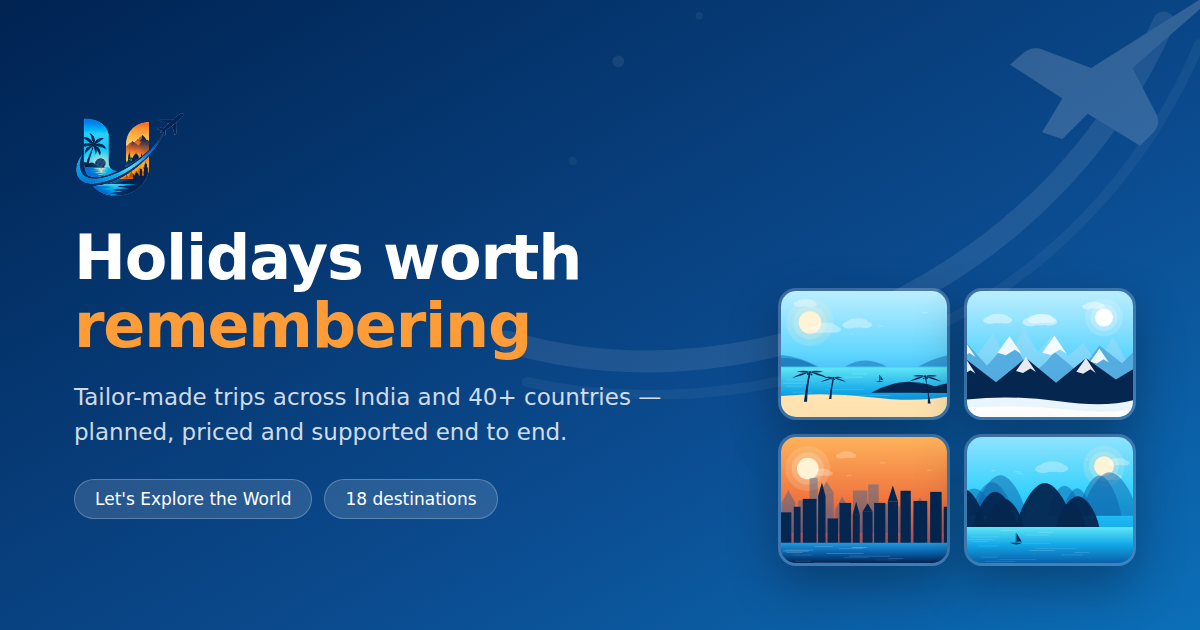
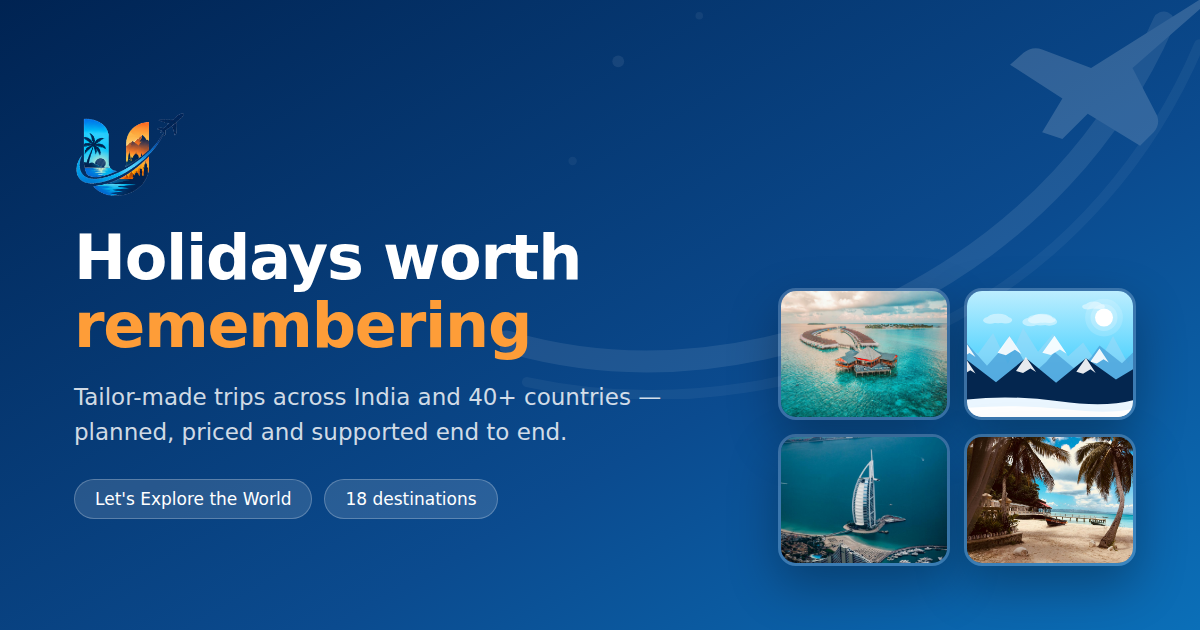
Use the owner's photographs for six destinations
Real photos supplied for Dubai, Goa, Maldives, Kerala, Ladakh and Kashmir,
wired in with tools/fetch-photos.py --apply --skip-download, which swapped
the .svg references across the pages, updated each img's intrinsic size and
rewrote the alt text. The other twelve destinations keep their illustrations.

Prepared for the web rather than dropped in as-is: EXIF stripped (including
any GPS), camera rotation applied, and each file sized to how it is actually
used. Cards render at roughly 380 CSS px, so those get ~900px files; Maldives
and Ladakh are kept larger because they are also the full-bleed backdrops of
the day/night set-piece and the interlude. That is 1.15 MB for six photos
rather than the 5.7 MB the largest original alone would have cost.

The photographs also reach the places that matter most: Ladakh now carries
the interlude, and Maldives the day/night scene. Two adjustments followed
from that:

- The interlude scrim was tuned for flat vector art and dimmed a real
  photograph far more than it needed to. Lightened, and the blends into the
  neighbouring sections pulled back, with legibility re-checked.
- The day/night copy crossfade left both lines partly visible around the
  midpoint, which read as ghosting over a photo. The day line now clears
  before the night line arrives.

Also regenerated the social share image so it uses the real photos, and made
the two day/night backdrop images lazy and dimensioned.
[…]

Changed region(s): [[0.6475, 0.6937, 0.9558, 0.9048], [0.6475, 0.4524, 0.8017, 0.6635]]

diff --git a/index.html b/index.html
@@ -122,15 +122,15 @@
       <div class="hero-art" data-anim="scale-in" data-anim-delay="500">
         <div class="collage">
           <figure class="tall">
-            <img src="assets/img/destinations/maldives.svg" alt="Illustration of the Maldives" width="800" height="560">
+            <img src="assets/img/destinations/maldives.jpg" alt="the Maldives" width="1500" height="1125">
             <figcaption>Maldives</figcaption>
           </figure>
           <figure class="short">
-            <img src="assets/img/destinations/kashmir.svg" alt="Illustration of Kashmir" width="800" height="560">
+            <img src="assets/img/destinations/kashmir.jpg" alt="Kashmir" width="900" height="675">
             <figcaption>Kashmir</figcaption>
           </figure>
           <figure class="short">
-            <img src="assets/img/destinations/dubai.svg" alt="Illustration of Dubai" width="800" height="560">
+            <img src="assets/img/destinations/dubai.jpg" alt="Dubai" width="900" height="1350">
             <figcaption>Dubai</figcaption>
           </figure>
         </div>
@@ -206,7 +206,7 @@
 
       <div class="hscroll__viewport">
         <div class="hscroll__track"><a class="hscroll__item" href="packages.html?destination=kashmir">
-      <img src="assets/img/destinations/kashmir.svg" alt="Illustration of Kashmir" loading="lazy" width="800" height="560">
+      <img src="assets/img/destinations/kashmir.jpg" alt="Kashmir" loading="lazy" width="900" height="675">
       <span class="hscroll__num">01</span>
       <span class="hscroll__cap">
         <span>India</span>
@@ -214,7 +214,7 @@
         <p>from ₹24,900 per person</p>
       </span>
     </a><a class="hscroll__item" href="packages.html?destination=kerala">
-      <img src="assets/img/destinations/kerala.svg" alt="Illustration of Kerala" loading="lazy" width="800" height="560">
+      <img src="assets/img/destinations/kerala.jpg" alt="Kerala" loading="lazy" width="900" height="506">
       <span class="hscroll__num">02</span>
       <span class="hscroll__cap">
         <span>India</span>
@@ -222,7 +222,7 @@
         <p>from ₹21,500 per person</p>
       </span>
     </a><a class="hscroll__item" href="packages.html?destination=ladakh">
-      <img src="assets/img/destinations/ladakh.svg" alt="Illustration of Ladakh" loading="lazy" width="800" height="560">
+      <img src="assets/img/destinations/ladakh.jpg" alt="Ladakh" loading="lazy" width="1800" height="1200">
       <span class="hscroll__num">03</span>
       <span class="hscroll__cap">
         <span>India</span>
@@ -238,7 +238,7 @@
         <p>from ₹28,900 per person</p>
       </span>
     </a><a class="hscroll__item" href="packages.html?destination=dubai">
-      <img src="assets/img/destinations/dubai.svg" alt="Illustration of Dubai" loading="lazy" width="800" height="560">
+      <img src="assets/img/destinations/dubai.jpg" alt="Dubai" loading="lazy" width="900" height="1350">
       <span class="hscroll__num">05</span>
       <span class="hscroll__cap">
         <span>International</span>
@@ -246,7 +246,7 @@
         <p>from ₹54,900 per person</p>
       </span>
     </a><a class="hscroll__item" href="packages.html?destination=maldives">
-      <img src="assets/img/destinations/maldives.svg" alt="Illustration of Maldives" loading="lazy" width="800" height="560">
+      <img src="assets/img/destinations/maldives.jpg" alt="Maldives" loading="lazy" width="1500" height="1125">
       <span class="hscroll__num">06</span>
       <span class="hscroll__cap">
         <span>International</span>
@@ -296,7 +296,7 @@
   <!-- ======================================================= interlude -->
   <section class="chapter" data-progress aria-labelledby="chapterTitle">
     <div class="chapter__media">
-      <img src="assets/img/destinations/ladakh.svg" alt="" aria-hidden="true" width="800" height="560">
+      <img src="assets/img/destinations/ladakh.jpg" alt="" aria-hidden="true" width="1800" height="1200">
     </div>
     <div class="chapter__copy">
       <span class="eyebrow">A short detour</span>
@@ -318,7 +318,7 @@
       </div>
       <div class="grid grid-3" data-stagger="110"><article class="pkg-card reveal" data-category="family" data-destination="kashmir" data-price="24900" data-title="kashmir tulip trail srinagar · gulmarg · pahalgam">
   <div class="pkg-media">
-    <img src="assets/img/destinations/kashmir.svg" alt="Illustration of Srinagar · Gulmarg · Pahalgam" loading="lazy" width="800" height="560">
+    <img src="assets/img/destinations/kashmir.jpg" alt="Srinagar · Gulmarg · Pahalgam" loading="lazy" width="900" height="675">
     <span class="pkg-badge">6D / 5N</span>
     <span class="pkg-rating"><svg viewBox="0 0 24 24" fill="none" stroke="currentColor" stroke-width="2" stroke-linecap="round" stroke-linejoin="round" aria-hidden="true"><path d="m12 2 3.1 6.3 6.9 1-5 4.9 1.2 6.8-6.2-3.3-6.2 3.3L7 14.2l-5-4.9 6.9-1z" fill="currentColor" stroke="none"/></svg>4.9 <span style="color:var(--muted);font-weight:500">(212)</span></span>
   </div>
@@ -337,7 +337,7 @@
   </div>
 </article><article class="pkg-card reveal" data-category="family" data-destination="kerala" data-price="21500" data-title="kerala backwater escape munnar · alleppey · kochi">
   <div class="pkg-media">
-    <img src="assets/img/destinations/kerala.svg" alt="Illustration of Munnar · Alleppey · Kochi" loading="lazy" width="800" height="560">
+    <img src="assets/img/destinations/kerala.jpg" alt="Munnar · Alleppey · Kochi" loading="lazy" width="900" height="506">
     <span class="pkg-badge">6D / 5N</span>
     <span class="pkg-rating"><svg viewBox="0 0 24 24" fill="none" stroke="currentColor" stroke-width="2" stroke-linecap="round" stroke-linejoin="round" aria-hidden="true"><path d="m12 2 3.1 6.3 6.9 1-5 4.9 1.2 6.8-6.2-3.3-6.2 3.3L7 14.2l-5-4.9 6.9-1z" fill="currentColor" stroke="none"/></svg>4.8 <span style="color:var(--muted);font-weight:500">(341)</span></span>
   </div>
@@ -356,7 +356,7 @@
   </div>
 </article><article class="pkg-card reveal" data-category="family" data-destination="dubai" data-price="54900" data-title="dubai city & desert dubai · abu dhabi">
   <div class="pkg-media">
-    <img src="assets/img/destinations/dubai.svg" alt="Illustration of Dubai · Abu Dhabi" loading="lazy" width="800" height="560">
+    <img src="assets/img/destinations/dubai.jpg" alt="Dubai · Abu Dhabi" loading="lazy" width="900" height="1350">
     <span class="pkg-badge">5D / 4N</span>
     <span class="pkg-rating"><svg viewBox="0 0 24 24" fill="none" stroke="currentColor" stroke-width="2" stroke-linecap="round" stroke-linejoin="round" aria-hidden="true"><path d="m12 2 3.1 6.3 6.9 1-5 4.9 1.2 6.8-6.2-3.3-6.2 3.3L7 14.2l-5-4.9 6.9-1z" fill="currentColor" stroke="none"/></svg>4.8 <span style="color:var(--muted);font-weight:500">(433)</span></span>
   </div>
@@ -375,7 +375,7 @@
   </div>
 </article><article class="pkg-card reveal" data-category="honeymoon" data-destination="maldives" data-price="78900" data-title="maldives honeymoon male · maafushi atoll">
   <div class="pkg-media">
-    <img src="assets/img/destinations/maldives.svg" alt="Illustration of Male · Maafushi Atoll" loading="lazy" width="800" height="560">
+    <img src="assets/img/destinations/maldives.jpg" alt="Male · Maafushi Atoll" loading="lazy" width="1500" height="1125">
     <span class="pkg-badge">5D / 4N</span>
     <span class="pkg-rating"><svg viewBox="0 0 24 24" fill="none" stroke="currentColor" stroke-width="2" stroke-linecap="round" stroke-linejoin="round" aria-hidden="true"><path d="m12 2 3.1 6.3 6.9 1-5 4.9 1.2 6.8-6.2-3.3-6.2 3.3L7 14.2l-5-4.9 6.9-1z" fill="currentColor" stroke="none"/></svg>5.0 <span style="color:var(--muted);font-weight:500">(164)</span></span>
   </div>
@@ -529,10 +529,12 @@
   <section class="daynight" data-progress aria-labelledby="dayNightTitle">
     <div class="daynight__pin">
       <div class="daynight__scene">
-        <img src="assets/img/destinations/maldives.svg" alt="" aria-hidden="true">
+        <img src="assets/img/destinations/maldives.jpg" alt="" aria-hidden="true"
+             loading="lazy" width="1500" height="1125">
       </div>
       <div class="daynight__scene daynight__scene--night">
-        <img src="assets/img/destinations/maldives.svg" alt="" aria-hidden="true">
+        <img src="assets/img/destinations/maldives.jpg" alt="" aria-hidden="true"
+             loading="lazy" width="1500" height="1125">
       </div>
 
       <div class="daynight__copy">

diff --git a/packages.html b/packages.html
@@ -107,7 +107,7 @@
 
       <div class="grid grid-3" id="pkgGrid" data-stagger="70"><article class="pkg-card reveal" data-category="family" data-destination="kashmir" data-price="24900" data-title="kashmir tulip trail srinagar · gulmarg · pahalgam">
   <div class="pkg-media">
-    <img src="assets/img/destinations/kashmir.svg" alt="Illustration of Srinagar · Gulmarg · Pahalgam" loading="lazy" width="800" height="560">
+    <img src="assets/img/destinations/kashmir.jpg" alt="Srinagar · Gulmarg · Pahalgam" loading="lazy" width="900" height="675">
     <span class="pkg-badge">6D / 5N</span>
     <span class="pkg-rating"><svg viewBox="0 0 24 24" fill="none" stroke="currentColor" stroke-width="2" stroke-linecap="round" stroke-linejoin="round" aria-hidden="true"><path d="m12 2 3.1 6.3 6.9 1-5 4.9 1.2 6.8-6.2-3.3-6.2 3.3L7 14.2l-5-4.9 6.9-1z" fill="currentColor" stroke="none"/></svg>4.9 <span style="color:var(--muted);font-weight:500">(212)</span></span>
   </div>
@@ -126,7 +126,7 @@
   </div>
 </article><article class="pkg-card reveal" data-category="family" data-destination="kerala" data-price="21500" data-title="kerala backwater escape munnar · alleppey · kochi">
   <div class="pkg-media">
-    <img src="assets/img/destinations/kerala.svg" alt="Illustration of Munnar · Alleppey · Kochi" loading="lazy" width="800" height="560">
+    <img src="assets/img/destinations/kerala.jpg" alt="Munnar · Alleppey · Kochi" loading="lazy" width="900" height="506">
     <span class="pkg-badge">6D / 5N</span>
     <span class="pkg-rating"><svg viewBox="0 0 24 24" fill="none" stroke="currentColor" stroke-width="2" stroke-linecap="round" stroke-linejoin="round" aria-hidden="true"><path d="m12 2 3.1 6.3 6.9 1-5 4.9 1.2 6.8-6.2-3.3-6.2 3.3L7 14.2l-5-4.9 6.9-1z" fill="currentColor" stroke="none"/></svg>4.8 <span style="color:var(--muted);font-weight:500">(341)</span></span>
   </div>
@@ -145,7 +145,7 @@
   </div>
 </article><article class="pkg-card reveal" data-category="beach" data-destination="goa" data-price="14900" data-title="goa long weekend north & south goa">
   <div class="pkg-media">
-    <img src="assets/img/destinations/goa.svg" alt="Illustration of North & South Goa" loading="lazy" width="800" height="560">
+    <img src="assets/img/destinations/goa.jpg" alt="North & South Goa" loading="lazy" width="900" height="675">
     <span class="pkg-badge">4D / 3N</span>
     <span class="pkg-rating"><svg viewBox="0 0 24 24" fill="none" stroke="currentColor" stroke-width="2" stroke-linecap="round" stroke-linejoin="round" aria-hidden="true"><path d="m12 2 3.1 6.3 6.9 1-5 4.9 1.2 6.8-6.2-3.3-6.2 3.3L7 14.2l-5-4.9 6.9-1z" fill="currentColor" stroke="none"/></svg>4.7 <span style="color:var(--muted);font-weight:500">(508)</span></span>
   </div>
@@ -164,7 +164,7 @@
   </div>
 </article><article class="pkg-card reveal" data-category="adventure" data-destination="ladakh" data-price="32900" data-title="ladakh high passes leh · nubra · pangong">
   <div class="pkg-media">
-    <img src="assets/img/destinations/ladakh.svg" alt="Illustration of Leh · Nubra · Pangong" loading="lazy" width="800" height="560">
+    <img src="assets/img/destinations/ladakh.jpg" alt="Leh · Nubra · Pangong" loading="lazy" width="1800" height="1200">
     <span class="pkg-badge">7D / 6N</span>
     <span class="pkg-rating"><svg viewBox="0 0 24 24" fill="none" stroke="currentColor" stroke-width="2" stroke-linecap="round" stroke-linejoin="round" aria-hidden="true"><path d="m12 2 3.1 6.3 6.9 1-5 4.9 1.2 6.8-6.2-3.3-6.2 3.3L7 14.2l-5-4.9 6.9-1z" fill="currentColor" stroke="none"/></svg>4.9 <span style="color:var(--muted);font-weight:500">(176)</span></span>
   </div>
@@ -259,7 +259,7 @@
   </div>
 </article><article class="pkg-card reveal" data-category="family" data-destination="dubai" data-price="54900" data-title="dubai city & desert dubai · abu dhabi">
   <div class="pkg-media">
-    <img src="assets/img/destinations/dubai.svg" alt="Illustration of Dubai · Abu Dhabi" loading="lazy" width="800" height="560">
+    <img src="assets/img/destinations/dubai.jpg" alt="Dubai · Abu Dhabi" loading="lazy" width="900" height="1350">
     <span class="pkg-badge">5D / 4N</span>
     <span class="pkg-rating"><svg viewBox="0 0 24 24" fill="none" stroke="currentColor" stroke-width="2" stroke-linecap="round" stroke-linejoin="round" aria-hidden="true"><path d="m12 2 3.1 6.3 6.9 1-5 4.9 1.2 6.8-6.2-3.3-6.2 3.3L7 14.2l-5-4.9 6.9-1z" fill="currentColor" stroke="none"/></svg>4.8 <span style="color:var(--muted);font-weight:500">(433)</span></span>
   </div>
@@ -278,7 +278,7 @@
   </div>
 </article><article class="pkg-card reveal" data-category="honeymoon" data-destination="maldives" data-price="78900" data-title="maldives honeymoon male · maafushi atoll">
   <div class="pkg-media">
-    <img src="assets/img/destinations/maldives.svg" alt="Illustration of Male · Maafushi Atoll" loading="lazy" width="800" height="560">
+    <img src="assets/img/destinations/maldives.jpg" alt="Male · Maafushi Atoll" loading="lazy" width="1500" height="1125">
     <span class="pkg-badge">5D / 4N</span>
     <span class="pkg-rating"><svg viewBox="0 0 24 24" fill="none" stroke="currentColor" stroke-width="2" stroke-linecap="round" stroke-linejoin="round" aria-hidden="true"><path d="m12 2 3.1 6.3 6.9 1-5 4.9 1.2 6.8-6.2-3.3-6.2 3.3L7 14.2l-5-4.9 6.9-1z" fill="currentColor" stroke="none"/></svg>5.0 <span style="color:var(--muted);font-weight:500">(164)</span></span>
   </div>

diff --git a/destinations.html b/destinations.html
@@ -110,7 +110,7 @@
       <p class="filter-count" id="destCount" style="margin:0 0 22px" role="status">18 destinations</p>
 
       <div class="grid grid-3" id="destGrid" data-stagger="70"><a class="dest-card reveal" data-region="india" data-name="kashmir" href="packages.html?destination=kashmir" id="kashmir">
-  <img src="assets/img/destinations/kashmir.svg" alt="Illustration of Kashmir" loading="lazy" width="800" height="560">
+  <img src="assets/img/destinations/kashmir.jpg" alt="Kashmir" loading="lazy" width="900" height="675">
   <span class="dest-tag">Best in spring</span>
   <div class="dest-body">
     <h3>Kashmir</h3>
@@ -118,7 +118,7 @@
     <div class="dest-price">from <b>₹24,900</b></div>
   </div>
 </a><a class="dest-card reveal" data-region="india" data-name="kerala" href="packages.html?destination=kerala" id="kerala">
-  <img src="assets/img/destinations/kerala.svg" alt="Illustration of Kerala" loading="lazy" width="800" height="560">
+  <img src="assets/img/destinations/kerala.jpg" alt="Kerala" loading="lazy" width="900" height="506">
   <span class="dest-tag">Family favourite</span>
   <div class="dest-body">
     <h3>Kerala</h3>
@@ -126,7 +126,7 @@
     <div class="dest-price">from <b>₹21,500</b></div>
   </div>
 </a><a class="dest-card reveal" data-region="india" data-name="goa" href="packages.html?destination=goa" id="goa">
-  <img src="assets/img/destinations/goa.svg" alt="Illustration of Goa" loading="lazy" width="800" height="560">
+  <img src="assets/img/destinations/goa.jpg" alt="Goa" loading="lazy" width="900" height="675">
   <span class="dest-tag">Beach</span>
   <div class="dest-body">
     <h3>Goa</h3>
@@ -134,7 +134,7 @@
     <div class="dest-price">from <b>₹14,900</b></div>
   </div>
 </a><a class="dest-card reveal" data-region="india" data-name="ladakh" href="packages.html?destination=ladakh" id="ladakh">
-  <img src="assets/img/destinations/ladakh.svg" alt="Illustration of Ladakh" loading="lazy" width="800" height="560">
+  <img src="assets/img/destinations/ladakh.jpg" alt="Ladakh" loading="lazy" width="1800" height="1200">
   <span class="dest-tag">Adventure</span>
   <div class="dest-body">
     <h3>Ladakh</h3>
@@ -174,7 +174,7 @@
     <div class="dest-price">from <b>₹23,900</b></div>
   </div>
 </a><a class="dest-card reveal" data-region="international" data-name="dubai" href="packages.html?destination=dubai" id="dubai">
-  <img src="assets/img/destinations/dubai.svg" alt="Illustration of Dubai" loading="lazy" width="800" height="560">
+  <img src="assets/img/destinations/dubai.jpg" alt="Dubai" loading="lazy" width="900" height="1350">
   <span class="dest-tag">Visa help</span>
   <div class="dest-body">
     <h3>Dubai</h3>
@@ -182,7 +182,7 @@
     <div class="dest-price">from <b>₹54,900</b></div>
   </div>
 </a><a class="dest-card reveal" data-region="international" data-name="maldives" href="packages.html?destination=maldives" id="maldives">
-  <img src="assets/img/destinations/maldives.svg" alt="Illustration of Maldives" loading="lazy" width="800" height="560">
+  <img src="assets/img/destinations/maldives.jpg" alt="Maldives" loading="lazy" width="1500" height="1125">
   <span class="dest-tag">Honeymoon</span>
   <div class="dest-body">
     <h3>Maldives</h3>

diff --git a/assets/css/motion.css b/assets/css/motion.css
@@ -342,8 +342,8 @@ body, .site-header, .pkg-card, .feature, .info-card, .form-card, .quote,
 .daynight__swap > * {
   position: absolute; inset: 0; transition: opacity .35s var(--ease);
 }
-.daynight__day   { opacity: calc(1 - var(--p, 0) * 1.6); }
-.daynight__night { opacity: calc((var(--p, 0) - .45) * 2.4); }
+.daynight__day   { opacity: calc(1 - var(--p, 0) * 2.6); }
+.daynight__night { opacity: calc((var(--p, 0) - .44) * 2.8); }
 .daynight__dial {
   display: inline-flex; align-items: center; gap: 12px; margin-top: 26px;
   background: rgba(255, 255, 255, .12); border: 1px solid rgba(255, 255, 255, .24);
@@ -425,13 +425,13 @@ body, .site-header, .pkg-card, .feature, .info-card, .form-card, .quote,
 .chapter::before {
   content: ""; position: absolute; inset: 0; z-index: 2; pointer-events: none;
   background:
-    linear-gradient(180deg, var(--surface) 0%, rgba(255, 255, 255, 0) 16%),
-    linear-gradient(0deg,   var(--surface-2) 0%, rgba(244, 248, 252, 0) 15%);
+    linear-gradient(180deg, var(--surface) 0%, rgba(255, 255, 255, 0) 11%),
+    linear-gradient(0deg,   var(--surface-2) 0%, rgba(244, 248, 252, 0) 10%);
 }
 :root[data-theme="night"] .chapter::before {
   background:
-    linear-gradient(180deg, var(--surface) 0%, rgba(5, 25, 47, 0) 16%),
-    linear-gradient(0deg,   var(--surface-2) 0%, rgba(8, 33, 60, 0) 15%);
+    linear-gradient(180deg, var(--surface) 0%, rgba(5, 25, 47, 0) 11%),
+    linear-gradient(0deg,   var(--surface-2) 0%, rgba(8, 33, 60, 0) 10%);
 }
 .chapter__media img {
   width: 100%; height: 100%; object-fit: cover; object-position: 50% 62%;
@@ -441,8 +441,8 @@ body, .site-header, .pkg-card, .feature, .info-card, .form-card, .quote,
 .chapter::after {
   content: ""; position: absolute; inset: 0; z-index: 1;
   background:
-    radial-gradient(70% 60% at 50% 50%, rgba(0, 20, 48, .30), transparent 72%),
-    linear-gradient(180deg, rgba(0, 24, 54, .74) 0%, rgba(0, 22, 50, .42) 45%, rgba(0, 20, 46, .82) 100%);
+    radial-gradient(66% 56% at 50% 46%, rgba(0, 20, 48, .40), transparent 74%),
+    linear-gradient(180deg, rgba(0, 24, 54, .52) 0%, rgba(0, 22, 50, .28) 46%, rgba(0, 20, 46, .70) 100%);
 }
 .chapter__copy {
   position: relative; z-index: 3; text-align: center; color: #fff;

diff --git a/README.md b/README.md
@@ -36,9 +36,12 @@ destination image is a hand-generated flat-vector SVG in `assets/img/destination
 drawn in the same illustration style as the logo (18 scenes: beaches, mountains, snow,
 city skylines, heritage domes, karsts, desert dunes, hot-air balloons and backwaters).
 
-These are placeholders. See **Using real photographs** below to swap in real,
-licensed photos with one command — the overlay scrims and text shadows are already
-tuned so captions and prices stay legible over busy photography.
+Six destinations now use **real photographs** supplied by the owner — Dubai, Goa,
+Maldives, Kerala, Ladakh and Kashmir. They are resized and recompressed for the web
+(cards get ~900px files; Maldives and Ladakh are kept larger because they also serve
+as the full-bleed backdrops of the day/night and interlude sections) and stripped of
+EXIF, including any GPS data. The remaining twelve destinations still use the
+illustrations. See **Using real photographs** below to replace those too.
 
 Logo assets were derived from the uploaded PNGs: background removed, trimmed, and
 exported as `logo-mark.png`, `logo-full.png`, favicons and `og-image.png`.
@@ -143,8 +146,9 @@ Everything below is **placeholder content** and should be replaced with the real
    - `hello@uniqueholidays.com`, `bookings@uniqueholidays.com`
    - `Unique Holidays Travel Desk`, `2nd Floor, Sunrise Arcade, Ring Road`, `Surat, Gujarat 395002, India`
    - the WhatsApp number in every `https://wa.me/919876543210` link
-2. **Photographs** — the destination images are illustrations, not photos of the
-   real places. Run `tools/fetch-photos.py --apply` (see above) or drop your own in.
+2. **Photographs** — twelve destinations still use illustrations rather than photos
+   of the real places. Run `tools/fetch-photos.py --apply` (see above) or drop your
+   own in. Make sure you hold the rights to every photo you publish.
 3. **Figures and claims** — the counters (`12,000+ travellers`, `40+ countries`,
    `11 yrs`, `4.8★`) and every package price, rating and review count are illustrative.
    Replace them with your real numbers before publishing.
